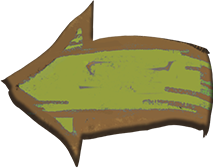
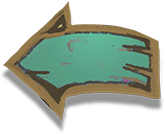
起名界面和结算界面的调整

diff --git a/client/src/view/ScoreView.ts b/client/src/view/ScoreView.ts
@@ -1,3 +1,4 @@
+// 结算界面
 class ScoreView extends egret.DisplayObjectContainer{
     private bg:egret.Bitmap;
     private bg1:egret.Bitmap;
@@ -7,8 +8,8 @@ class ScoreView extends egret.DisplayObjectContainer{
     private playerName:egret.TextField;
     private exp:egret.TextField;
     private level:egret.TextField;
-    private shareBtn:TextButtonWithBg;
-    private goOnBtn:TextButtonWithBg;
+    private shareBtn:ArrowButton;
+    private goOnBtn:ArrowButton;
 
     private scrollContent:egret.DisplayObjectContainer;
     private scrollArea:egret.ScrollView;
@@ -40,9 +41,10 @@ class ScoreView extends egret.DisplayObjectContainer{
         this.avatar.name = "avatar";
 
         this.playerName = new egret.TextField();
-        this.playerName.name ="playerName";
+        this.playerName.name = "playerName";
         this.playerName.textColor = 0X000000;
         this.playerName.verticalAlign = egret.VerticalAlign.MIDDLE;
+        this.playerName.textAlign = egret.HorizontalAlign.CENTER;
 
         this.finalScore = new egret.TextField();
         this.finalScore.name = "finalScore";
@@ -70,12 +72,12 @@ class ScoreView extends egret.DisplayObjectContainer{
         this.scrollArea.bounces = true;
         this.scrollArea.addEventListener(egret.Event.CHANGE, () => this.setInfoContainers(), this);
 
-        this.shareBtn = new TextButtonWithBg("goBack_png", 30);
+        this.shareBtn = new ArrowButton(false, "goShare_png", 30);
         this.shareBtn.text = ViewUtils.getTipText("shareBtn");
         this.shareBtn.name = "shareBtn";
         this.shareBtn.onClicked = () => this.doShare();
 
-        this.goOnBtn = new TextButtonWithBg("goForward_png", 30);
+        this.goOnBtn = new ArrowButton(true, "goForward_png", 30);
         this.goOnBtn.text = ViewUtils.getTipText("continueBtn");
         this.goOnBtn.name = "goOnBtn";
         this.goOnBtn.onClicked = () => this.onGoOn();
@@ -87,7 +89,7 @@ class ScoreView extends egret.DisplayObjectContainer{
         this.scrollContent.width = this.scrollArea.width;
     }
 
-    onUsing;
+    onUsing; // 是否处于使用该界面的状态,决定是否检测滚动区域内信息的变化
 
     open(scoreInfos = []){
         this.onUsing = true;
@@ -100,15 +102,15 @@ class ScoreView extends egret.DisplayObjectContainer{
     doClose;
 
     async onGoOn() {
+        this.goOnBtn.touchEnabled = false;
         // 未满级则获得经验
         if (Utils.getOccupationLevelAndExp(this.player.occupation).level != -1){
             var getExp = Utils.score2Exp(BattleStatistics.getFinalScore(this.scoreInfos));
             await Utils.delay(2000);
             Utils.addOccupationExp(this.player.occupation, getExp);
-            this.setExpTip();
         }
-        await Utils.delay(2000);
         this.onUsing = false;
+        this.goOnBtn.touchEnabled = true;
         this.doClose();
     }
 
@@ -116,14 +118,18 @@ class ScoreView extends egret.DisplayObjectContainer{
         this.refresh();
     }
 
-    readonly yGap = 60;
-    readonly xGap = 50;
-    readonly xShort = 180;
+    readonly yGap = 50;
+    readonly xGap = 0;
+    readonly xShort = 195;
     readonly yLimit = 335;
 
     refresh() {
         // 设置头像
         ViewUtils.setTexName(this.avatar, "avatar" + this.player.occupation + "_png", true);
+
+        // 设置玩家名
+        var name = Utils.loadLocalData("playerName") ? Utils.loadLocalData("playerName") : "一个新玩家";
+        this.playerName.text = name;
 
         // 设置经验条
         this.setExpTip();
@@ -138,11 +144,11 @@ class ScoreView extends egret.DisplayObjectContainer{
     refreshInfoContainers() {
         this.scrollContent.removeChildren();
         this.infoContainers = [];
-        var y = 20;
+        var y = 5;
         var index = 0
         for (var title in this.scoreInfos) {
             var infoContainer = this.createSingleStoreInfo(title, this.scoreInfos[title]);
-            if (index > 5)
+            if (index > 6)
                 this.setShortInfo(infoContainer);
             else 
                 this.setLongInfo(infoContainer);
@@ -168,7 +174,7 @@ class ScoreView extends egret.DisplayObjectContainer{
     // 创建单条得分信息,其中包括标题,得分以及横线
     createSingleStoreInfo(t:string, s:number) {
         var title = ViewUtils.createTextField(30, 0x000000);
-        title.text = ViewUtils.getTipText(t);
+        title.text = t.indexOf("test") > -1 ? t : ViewUtils.getTipText(t);
         title.name = "title";
         var score = ViewUtils.createTextField(30, 0x000000);
         score.text = t == "difficulty" ? ("× " + s.toString()) : s.toString();

diff --git a/client/src/view/NameView.ts b/client/src/view/NameView.ts
@@ -1,10 +1,11 @@
+// 玩家起名界面
 class NameView extends egret.DisplayObjectContainer {
     public player:Player;
     private bg:egret.Bitmap;
     private bg1:egret.Bitmap;
     private keyInName:egret.TextField;
     private randomBtn:egret.Bitmap;
-    private goOnBtn:TextButtonWithBg;
+    private goOnBtn:ArrowButton;
     constructor(w, h) {
         super();
         
@@ -18,7 +19,7 @@ class NameView extends egret.DisplayObjectContainer {
         this.bg.touchEnabled = true;
         this.bg.name = "bg";
 
-        this.bg1 = ViewUtils.createBitmapByName("LuxuryChestBg_png");
+        this.bg1 = ViewUtils.createBitmapByName("nameViewBg_png");
         this.bg1.name = "bg1";
 
         this.keyInName = new egret.TextField();
@@ -26,12 +27,16 @@ class NameView extends egret.DisplayObjectContainer {
         this.keyInName.touchEnabled = true;
         this.keyInName.type = egret.TextFieldType.INPUT;
         this.keyInName.size = 40;
+        this.keyInName.textAlign = egret.HorizontalAlign.CENTER;
+        this.keyInName.text = "点击输入名字"
+        this.keyInName.addEventListener(egret.TouchEvent.TOUCH_TAP, (evt) => this.clearDefaultName(), this);
 
-        this.randomBtn = ViewUtils.createBitmapByName("pageUpBtn_png");
+        this.randomBtn = ViewUtils.createBitmapByName("randomNameBtn_png");
         this.randomBtn.name = "randomBtn";
-        this.addEventListener(egret.TouchEvent.TOUCH_TAP, (evt) => this.getRandomName(), this);
+        this.randomBtn.touchEnabled = true;
+        this.randomBtn.addEventListener(egret.TouchEvent.TOUCH_TAP, (evt) => this.getRandomName(), this);
 
-        this.goOnBtn = new TextButtonWithBg("goForward_png", 30);
+        this.goOnBtn = new ArrowButton(true, "goForward_png", 30);
         this.goOnBtn.text = ViewUtils.getTipText("continueBtn");
         this.goOnBtn.name = "goOnBtn";
         this.goOnBtn.onClicked = () => this.onGoOn();
@@ -45,11 +50,24 @@ class NameView extends egret.DisplayObjectContainer {
         return new Promise<void>((resolve, reject) => this.doClose = resolve);
     }
 
-    getRandomName(){
-
+    // 清空姓名框内的默认显示内容
+    clearDefaultName() {
+        if(this.keyInName.text == "点击输入名字")
+            this.keyInName.text = "";
     }
 
-    async onGoOn(){
+    // 获取一个随机的名字
+    getRandomName() {
+        var nameCfg = GCfg.getRandomNameCfg();
+        var rd = new SRandom();
+        var first = nameCfg.first[rd.nextInt(0, nameCfg.first.length)];
+        var middle = nameCfg.middle[rd.nextInt(0, nameCfg.middle.length)];
+        var last = nameCfg.last[rd.nextInt(0, nameCfg.last.length)];
+        this.keyInName.text = first + middle + last;
+    }
+
+    // 点击继续按钮时检查起名
+    async onGoOn() {
         var r = this.checkName();
         switch(r){
             case "needName":{
@@ -65,6 +83,7 @@ class NameView extends egret.DisplayObjectContainer {
                 break;
             }
             case "validName":{
+                this.saveName();
                 this.doClose();
                 break;
             }
@@ -73,14 +92,18 @@ class NameView extends egret.DisplayObjectContainer {
 
     doClose;
 
-    checkName(){
+    checkName() {
         var name = this.keyInName.text;
-        if (name.length == 0)
+        if (name.length == 0 || name == "点击输入名字")
             return "needName";
         else if (name.length > 7)
             return "tooLongName";
         else if (!Utils.checkValidName(name))
             return "inValidName";
         else return "validName";
+    }
+
+    saveName() {
+        Utils.saveLocalData("playerName", this.keyInName.text);
     }
 }

diff --git a/common/logic/Utils.ts b/common/logic/Utils.ts
@@ -855,7 +855,7 @@ class Utils {
         for (var i = 0; i < occupationLevelCfg.length; i++){
             var e = occupationLevelCfg[i];
             if (exp > e)
-                exp -= e;            
+                exp -= e;
             else break;
         }
         if (i == occupationLevelCfg.length)
@@ -866,6 +866,11 @@ class Utils {
 
     // 玩家起名的合法性
     public static checkValidName(name:string){
+        var invalidNameCfg = GCfg.getInvalidNameCfg();
+        for(var n of invalidNameCfg)
+            if(name.indexOf(n) > -1)
+                return false;
+        
         return true;
     }
 }

diff --git a/client/src/view/MainView.ts b/client/src/view/MainView.ts
@@ -419,7 +419,7 @@ class MainView extends egret.DisplayObjectContainer {
                         await this.rookiePlay();
                     else {
                         this.newPlay();
-                        // 不是新手教程的新战斗,需要玩家起名
+                        // 不是新手教程的新战斗,如果没有玩家名字,需要玩家起名
                         if (!Utils.loadLocalData("playerName"))
                             await this.openNameView();
                             

diff --git a/common/logic/GCfg.ts b/common/logic/GCfg.ts
@@ -20,4 +20,6 @@ class GCfg {
     public static getBattleViewElemTipTypes; // 获取战斗内需要特殊元素提示的类型
     public static getBattleTypes; // 获取各种战斗关卡的战斗类型,boss或senior
     public static getMiscConfig; // 在misc.json获取各类单独的小配置
+    public static getRandomNameCfg; // 获取随机玩家名所用的配置
+    public static getInvalidNameCfg; // 获取随机玩家名所用的配置
 }

diff --git a/client/src/view/TextButtonWithBg.ts b/client/src/view/TextButtonWithBg.ts
@@ -214,3 +214,14 @@ class TextButtonWithBg extends egret.DisplayObjectContainer {
         }
     }
 }
+
+// 专门用于底部的箭头按钮
+class ArrowButton extends TextButtonWithBg{
+    public constructor(toRight:boolean, bgTexName:string, fontSize:number = 0){
+        super(bgTexName, fontSize);
+        if (toRight)
+            this.textFieldOffset = {t:-15, l:-5};
+        else
+            this.textFieldOffset = {t:-15, l:-5};
+    }
+}

diff --git a/client/src/Main.ts b/client/src/Main.ts
@@ -169,6 +169,12 @@ class Main extends egret.DisplayObjectContainer {
             Utils.assert(misc[type], "config " + type + " do not exist.")
             return misc[type];
         };
+
+        // 随机名字
+        GCfg.getRandomNameCfg = () => ResMgr.getRes("randomName_json");
+
+        // 不合规名字配置
+        GCfg.getInvalidNameCfg = () => ResMgr.getRes("invalidName_json");
     }
 
     // 加载指定资源组
